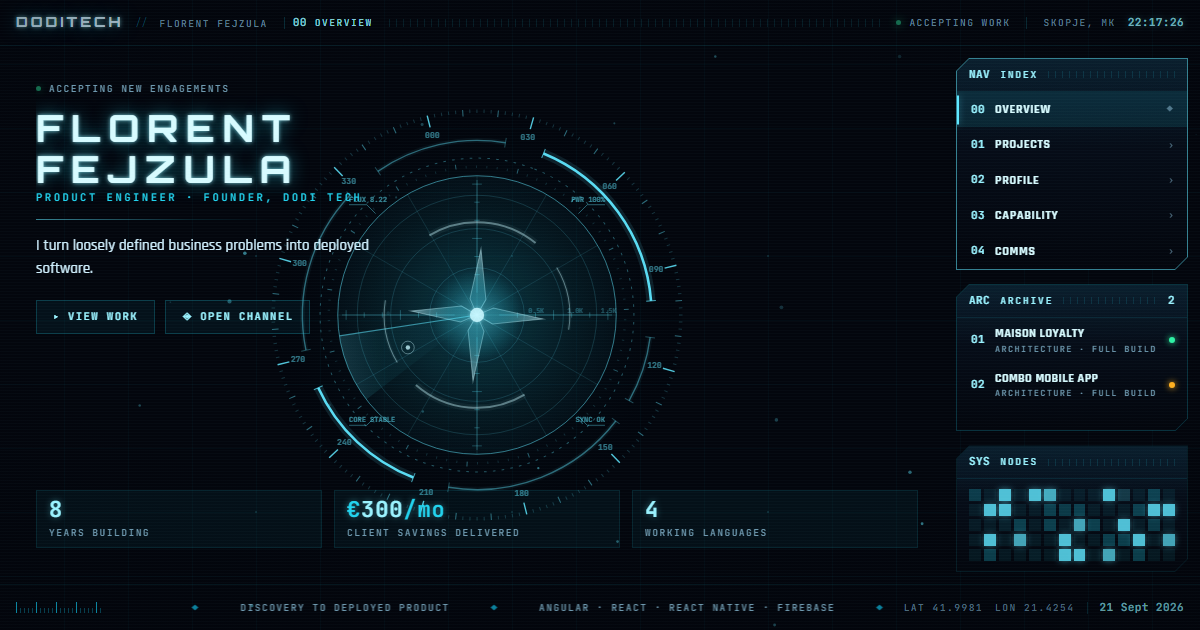
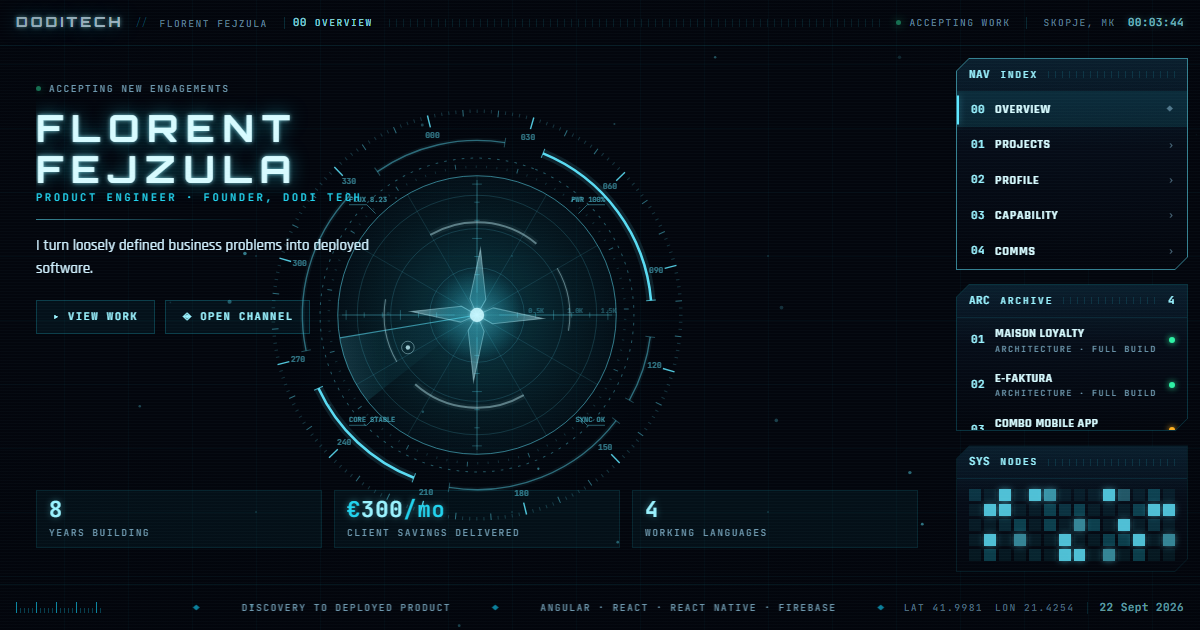
Add Servis Auto and e-Faktura records, Cyrillic support, contact fallback
Content:
- Add Servis Auto (record 04) and e-Faktura (record 02) with screenshots
- Drop the COMBO repo link: the repo 404s for anonymous visitors
- Ground identity, stats, timeline and capability matrix in the 2026 CV

Interface:
- Add `highlights` to Project for per-project engineering notes
- Add `imageLayout` so dense landscape screenshots span both dossier
  columns instead of being crushed into the portrait image column
- Hoist the dossier header above both columns

Cyrillic:
- Rajdhani and Orbitron are Latin-only, so Macedonian copy was falling
  back to a system font. Add Exo 2 as a Cyrillic companion and switch
  JetBrains Mono to the all-subset stylesheet. unicode-range means a
  Latin-only visitor downloads none of it.

Contact:
- mailto: cannot report failure, so always offer a copyable fallback
  with the address and the composed draft
- Fix composeDraft dropping its blank separator line via filter(Boolean)

diff --git a/src/data/profile.ts b/src/data/profile.ts
@@ -196,6 +196,57 @@ export const projects: Project[] = [
     progress: 100,
   },
   {
+    id: 'e-faktura',
+    name: 'e-Faktura',
+    role: 'Architecture · Full build',
+    summary:
+      'An invoicing product for North Macedonia, built to the УЈП e-Фактура specification. A company enters its details once, then creates, numbers, validates, prints and exports invoices; the operator runs it as a subscription, with an admin screen that provisions a new customer — auth account, company record and subscription — in a single call. It is the web successor to an offline desktop invoicing tool I built earlier, which has seven active business users moving across to this version. Submission to УЈП is deliberately not wired yet: it needs a JWS signed by a smart-card certificate that no browser tab can reach, so signing and transport are abstract seams rather than a half-working implementation.',
+    year: '2026',
+    status: 'live',
+    stack: [
+      'Angular',
+      'TypeScript',
+      'Angular Material',
+      'Firebase Auth',
+      'Firestore',
+      'Firestore Security Rules',
+      'Cloud Functions',
+      'RxJS',
+      'Firebase Hosting',
+    ],
+    metrics: [
+      { label: 'Users on the predecessor', value: '7' },
+      { label: 'Tests & E2E assertions', value: '129' },
+      { label: 'Initial bundle', value: '273 kB' },
+    ],
+    highlights: [
+      {
+        title: 'Getting the tax spec right, where public write-ups get it wrong',
+        detail:
+          'It is JSON and JWS, not UBL 2.1. Line amounts carry four decimals while document totals carry two, so rounding has to happen at one specific point or the totals disagree with the sum of the lines. A reverse-charge line keeps its VAT rate but reports zero VAT, while still declaring a notional amount in the totals. The seller VAT number takes a Cyrillic МК prefix beside a Latin MK country code. It is handled by a dedicated totals engine with more test code than implementation, plus a separate document builder and validator, and an 87-entry tax-indicator codebook generated from the official source rather than typed by hand.',
+      },
+      {
+        title: 'Immutability enforced in rules, not in the interface',
+        detail:
+          'A tax record that the UI merely declines to edit is not immutable. 165 lines of Firestore rules with nine helpers do the real work: access is scoped by member UID so no query can reach another company’s data; an issued invoice freezes on its issued timestamp rather than its status, because a status check would leave issued-but-unsubmitted invoices editable; after issue only payment tracking and the tax receipt may change; deletion is allowed only while the authority holds no copy. The subscription date is unwritable from any browser, and admin rights live in a document no client can write. The end-to-end suite asserts each of these against a real emulator rather than trusting them.',
+      },
+      {
+        title: 'Two places where the platform fights the requirement',
+        detail:
+          'Signing needs a qualified certificate on a smart card behind a PIN, and the authority’s host sends no CORS headers — so the signer and transport are abstract, currently bound to implementations that refuse and explain why, swappable for an extension bridge, a server-held certificate or a desktop shell. Separately, provisioning a customer from the browser is impossible, because creating the auth account replaces the operator’s own session — they would be signed in as the customer they just created. That moved to an Admin-SDK callable that writes profile and company in one batch and deletes the auth account if the batch fails, so a half-failed run cannot leave an orphan that makes the next attempt fail on “email already in use”.',
+      },
+    ],
+    image: '/shots/e-faktura.webp',
+    imageLayout: 'full',
+    links: [
+      { label: 'Live app', href: 'https://e-faktura-1e6d0.web.app' },
+      { label: 'Repo', href: 'https://github.com/florent-fejzula/e-faktura' },
+    ],
+    // Invoicing works end to end and is deployed; submission to УЈП
+    // is the remaining piece, hence live-but-not-100.
+    progress: 75,
+  },
+  {
     id: 'combo',
     name: 'COMBO Mobile App',
     role: 'Architecture · Full build',
@@ -238,12 +289,58 @@ export const projects: Project[] = [
     image: '/shots/combo-mk.webp',
     links: [
       { label: 'Client site', href: 'https://combo.mk' },
-      { label: 'Repo', href: 'https://github.com/florent-fejzula/combo-mk' },
+      // Repo link pulled: github.com/florent-fejzula/combo-mk returns 404
+      // to anonymous visitors. Make it public and this goes back in.
     ],
     // Distance to a production release, not to the demo scope — the demo
     // itself is complete. Order submission, accounts, live loyalty and
     // push notifications are the remainder.
     progress: 40,
+  },
+  {
+    id: 'servis-auto',
+    name: 'Servis Auto',
+    role: 'Architecture · Full build',
+    summary:
+      'A work-order system for Auto Servis Bosch, a car repair shop in Kumanovo. Staff record the client, the vehicle, what the client reported and what was actually replaced, then print a signed sheet stating the guarantee — the point is to settle “you broke something else” arguments with a dated document rather than with memory. The shop serves Albanian and Macedonian clients, so the printed sheet has to come out in the client’s language regardless of which language the mechanic has the app set to. That one requirement ruled out Angular’s built-in i18n and shaped the rest of the build.',
+    year: '2026',
+    status: 'live',
+    stack: [
+      'Angular',
+      'TypeScript',
+      'Firestore',
+      'Firebase Auth',
+      'Firebase Hosting',
+      'PWA / Service Worker',
+      'SCSS',
+      'Vitest',
+    ],
+    metrics: [
+      { label: 'Languages in one build', value: '3' },
+      { label: 'Unit tests passing', value: '24' },
+      { label: 'Initial bundle, gzipped', value: '241 kB' },
+    ],
+    highlights: [
+      {
+        title: 'Print language decoupled from interface language',
+        detail:
+          'The sheet a client signs must be in their language while the mechanic keeps the app in his — one build, two languages live at the same time. Angular’s built-in i18n compiles one bundle per locale and structurally cannot do that. It runs on runtime dictionaries instead, with a service exposing two lookups: one for the current interface language, one for an explicitly named language, and the print view resolving the client’s language off the job itself. A test fails the build if the three dictionaries ever drift out of sync.',
+      },
+      {
+        title: 'The document is evidence, so it cannot change retroactively',
+        detail:
+          'A job copies the client name, phone, plate and guarantee term onto itself when it is created, rather than referencing them. A client changing their phone number, or the shop changing its default guarantee term, must never silently rewrite what a sheet printed last March actually promised. Work orders get human-readable per-year sequential numbers through a transactional counter, and Firestore runs with a persistent local cache so the shop’s unreliable wifi does not block intake.',
+      },
+      {
+        title: 'The Print button that did nothing on iPhone',
+        detail:
+          'Reported as a dead button, and it was not application code: in an iOS home-screen web app there is no Safari chrome to host a print or share sheet, so the print call is silently ignored. The fix detects standalone mode and reopens the same route in a real Safari tab, carrying a flag that fires the dialog once and then scrubs itself out of the URL.',
+      },
+    ],
+    image: '/shots/servis-auto.webp',
+    imageLayout: 'full',
+    links: [{ label: 'Source', href: 'https://github.com/florent-fejzula/auto-service-bosch' }],
+    progress: 100,
   },
 ]
 

diff --git a/src/components/panels/ContactPanel.tsx b/src/components/panels/ContactPanel.tsx
@@ -1,4 +1,4 @@
-import { useState, type FormEvent } from 'react'
+import { useEffect, useRef, useState, type FormEvent } from 'react'
 import { Brackets, Readout } from '@/components/hud/primitives'
 import { PanelShell } from '@/components/stage/PanelShell'
 import { Waveform } from '@/components/canvas/Waveform'
@@ -10,9 +10,41 @@ type State = 'idle' | 'sending' | 'sent' | 'error'
 const field =
   'w-full bg-[color-mix(in_oklab,var(--color-cy-400)_6%,transparent)] border border-[var(--line)] px-3 py-2 font-[var(--font-ui)] text-[15px] text-[var(--color-ink)] outline-none transition-colors placeholder:text-[var(--color-ink-faint)] focus:border-[var(--line-hot)]'
 
+/**
+ * Copy button with a short confirmation. Falls back to selecting the
+ * text when the Clipboard API is unavailable or blocked — which it is
+ * over plain HTTP and in some embedded browsers.
+ */
+function CopyButton({ text, label }: { text: string; label: string }) {
+  const [state, setState] = useState<'idle' | 'copied' | 'failed'>('idle')
+  const timer = useRef<ReturnType<typeof setTimeout> | undefined>(undefined)
+
+  useEffect(() => () => clearTimeout(timer.current), [])
+
+  async function copy() {
+    try {
+      await navigator.clipboard.writeText(text)
+      setState('copied')
+    } catch {
+      setState('failed')
+    }
+    clearTimeout(timer.current)
+    timer.current = setTimeout(() => setState('idle'), 2400)
+  }
+
+  return (
+    <button type="button" className="hud-btn !px-3 !py-1.5" onClick={copy}>
+      {state === 'copied' ? '✓ Copied' : state === 'failed' ? '⃠ Select it manually' : `⧉ ${label}`}
+    </button>
+  )
+}
+
 export function ContactPanel() {
   const [state, setState] = useState<State>('idle')
   const [error, setError] = useState('')
+  // Held so a visitor whose mail client never opened can copy what they
+  // wrote instead of losing it.
+  const [draft, setDraft] = useState<string | null>(null)
 
   async function onSubmit(event: FormEvent<HTMLFormElement>) {
     event.preventDefault()
@@ -27,6 +59,7 @@ export function ContactPanel() {
     })
 
     if (result.ok) {
+      setDraft(result.channel === 'mailto' ? result.draft : null)
       setState('sent')
     } else {
       setError(result.error)
@@ -103,21 +136,47 @@ export function ContactPanel() {
             <Brackets inset={4} />
 
             {state === 'sent' ? (
-              <div className="flex h-full min-h-[320px] flex-col items-center justify-center text-center">
-                <div className="t-datum glow mb-3 !text-[28px] text-[var(--color-online)]">◈</div>
-                <h3 className="t-head text-[15px]">Transmission received</h3>
-                <p className="t-body mt-2 max-w-[38ch] text-[var(--color-ink-dim)]">
-                  {isConfigured
-                    ? 'Logged and queued. You will hear from me shortly.'
-                    : 'Your mail client should be open with the message ready to send.'}
-                </p>
-                <button
-                  type="button"
-                  className="hud-btn mt-5"
-                  onClick={() => setState('idle')}
-                >
-                  ↺ New message
-                </button>
+              <div className="flex h-full min-h-[320px] flex-col justify-center">
+                <div className="text-center">
+                  <div className="t-datum glow mb-3 !text-[28px] text-[var(--color-online)]">◈</div>
+                  <h3 className="t-head text-[15px]">
+                    {draft ? 'Handed to your mail client' : 'Transmission received'}
+                  </h3>
+                  <p className="t-body mx-auto mt-2 max-w-[40ch] text-[var(--color-ink-dim)]">
+                    {draft
+                      ? 'A draft should have opened, already addressed and filled in. Send it and it reaches me.'
+                      : 'Logged and queued. You will hear from me shortly.'}
+                  </p>
+                </div>
+
+                {/* Nothing can detect a mailto: that silently did nothing,
+                    so the escape hatch is always offered rather than
+                    waiting for the visitor to report a dead button. */}
+                {draft && (
+                  <div className="hud-plate mt-5 p-3.5">
+                    <div className="t-label mb-2">If no draft appeared</div>
+                    <p className="t-body mb-3 text-[13.5px] text-[var(--color-ink-dim)]">
+                      Some browsers have no mail client to hand it to. Copy both and send it from
+                      wherever you read mail — nothing you typed is lost.
+                    </p>
+                    <div className="mb-3 border border-[var(--line-soft)] px-3 py-2">
+                      <div className="t-label !text-[8.5px]">address</div>
+                      <div className="t-datum mt-0.5 select-all break-all text-[var(--color-cy-200)]">
+                        {contact.email}
+                      </div>
+                    </div>
+                    <div className="flex flex-wrap gap-2">
+                      <CopyButton text={contact.email} label="Copy address" />
+                      <CopyButton text={draft} label="Copy message" />
+                    </div>
+                  </div>
+                )}
+
+                <div className="mt-5 text-center">
+                  <button type="button" className="hud-btn" onClick={() => setState('idle')}>
+                    ↺ New message
+                  </button>
+                </div>
               </div>
             ) : (
               <form onSubmit={onSubmit} className="space-y-3">

diff --git a/src/lib/contact.ts b/src/lib/contact.ts
@@ -19,7 +19,12 @@ export interface Message {
 
 export type SendResult =
   | { ok: true; channel: 'firestore' }
-  | { ok: true; channel: 'mailto' }
+  /**
+   * `draft` is the composed message. A mail client that never opened
+   * leaves the visitor with nothing, so the panel offers it for copying
+   * rather than making them retype it.
+   */
+  | { ok: true; channel: 'mailto'; draft: string }
   | { ok: false; error: string }
 
 /** Firestore calls can hang when the API is disabled — don't let them. */
@@ -34,26 +39,42 @@ const config = {
 
 export const isConfigured = Boolean(config.apiKey && config.projectId && config.appId)
 
+/** Plain-text version of the enquiry, for the mail body and for copying. */
+export function composeDraft(message: Message) {
+  return [
+    `Name: ${message.name}`,
+    `Email: ${message.email}`,
+    message.company ? `Company: ${message.company}` : null,
+    '',
+    message.body,
+  ]
+    // Not filter(Boolean): that would also drop the '' separator and run
+    // the message straight into the header block.
+    .filter((line) => line !== null)
+    .join('\n')
+}
+
+/**
+ * Hands the message to the visitor's mail client. There is no way to
+ * detect whether that worked — a machine with no handler registered for
+ * mailto: simply does nothing — so the caller always gets the draft back
+ * and shows a copyable fallback either way.
+ */
 function mailto(message: Message) {
+  const draft = composeDraft(message)
   const subject = encodeURIComponent(`Enquiry from ${message.name}`)
-  const body = encodeURIComponent(
-    [
-      `Name: ${message.name}`,
-      `Email: ${message.email}`,
-      message.company ? `Company: ${message.company}` : null,
-      '',
-      message.body,
-    ]
-      .filter(Boolean)
-      .join('\n'),
-  )
-  window.location.href = `mailto:${contact.email}?subject=${subject}&body=${body}`
+  try {
+    window.location.href =
+      `mailto:${contact.email}?subject=${subject}&body=${encodeURIComponent(draft)}`
+  } catch {
+    /* blocked or unhandled — the fallback block carries the message */
+  }
+  return draft
 }
 
 export async function sendMessage(message: Message): Promise<SendResult> {
   if (!isConfigured) {
-    mailto(message)
-    return { ok: true, channel: 'mailto' }
+    return { ok: true, channel: 'mailto', draft: mailto(message) }
   }
 
   try {
@@ -79,7 +100,6 @@ export async function sendMessage(message: Message): Promise<SendResult> {
     // Rules rejected it, the API is off, the visitor is offline — it does
     // not matter which. An enquiry is too valuable to drop on the floor,
     // so hand it to the mail client rather than showing an error.
-    mailto(message)
-    return { ok: true, channel: 'mailto' }
+    return { ok: true, channel: 'mailto', draft: mailto(message) }
   }
 }

diff --git a/src/styles/tokens.css b/src/styles/tokens.css
@@ -35,8 +35,10 @@
   --color-ink-faint: #3d6073;
 
   /* ---- type ---- */
-  --font-display: 'Orbitron Variable', ui-sans-serif, system-ui, sans-serif;
-  --font-ui: 'Rajdhani', ui-sans-serif, system-ui, sans-serif;
+  /* Rajdhani and Orbitron carry no Cyrillic; Exo 2 picks those
+     codepoints up so Macedonian copy stays in family. */
+  --font-display: 'Orbitron Variable', 'Exo 2 Variable', ui-sans-serif, system-ui, sans-serif;
+  --font-ui: 'Rajdhani', 'Exo 2 Variable', ui-sans-serif, system-ui, sans-serif;
   --font-data: 'JetBrains Mono Variable', ui-monospace, 'SF Mono', monospace;
 
   /* ---- motion ---- */

diff --git a/src/index.css b/src/index.css
@@ -7,7 +7,12 @@
 @import '@fontsource/rajdhani/latin-700.css';
 @import '@fontsource/rajdhani/latin-ext-400.css';
 @import '@fontsource/rajdhani/latin-ext-600.css';
-@import '@fontsource-variable/jetbrains-mono/wght.css';
+/* index.css (not wght.css) so the Cyrillic subsets are declared too. */
+@import '@fontsource-variable/jetbrains-mono/index.css';
+/* Cyrillic companion for Rajdhani, which is Latin-only. Ordering in
+   --font-ui keeps Latin on Rajdhani; unicode-range means a Latin-only
+   visitor never downloads an Exo 2 file. */
+@import '@fontsource-variable/exo-2/wght.css';
 
 @import 'tailwindcss';
 
